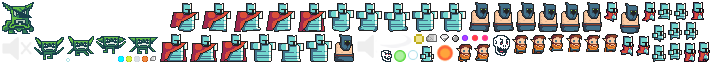
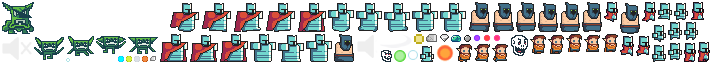
Adds slime and tweaks enemy spawning

Changed region(s): [[0.618, 0.5312, 0.8034, 0.9688]]

diff --git a/src/services/EnemySpawner.js b/src/services/EnemySpawner.js
@@ -130,26 +130,18 @@ export class EnemySpawner {
 
   getSpawnTypes() {
     return [
-      { knight: 1, skull: 18, gremlin: 19 },
-      { knight: 1, skull: 17, gremlin: 18, eliteKnight: 20 },
-      { knight: 1, skull: 16, gremlin: 17, eliteKnight: 19, largeKnight: 20 },
-      { knight: 1, skull: 15, gremlin: 16, eliteKnight: 18, largeKnight: 19 },
-      {
-        knight: 1,
-        skull: 6,
-        gremlin: 13,
-        eliteKnight: 18,
-        largeKnight: 19,
-        largeEliteKnight: 20,
-      },
-      {
-        knight: 1,
-        skull: 6,
-        gremlin: 13,
-        eliteKnight: 18,
-        largeKnight: 19,
-        largeEliteKnight: 20,
-      },
+      // prettier-ignore
+      { slime: 1, gremlin: 17 },
+      // prettier-ignore
+      { slime: 1, gremlin: 15, skull: 18 },
+      // prettier-ignore
+      { slime: 1, gremlin: 8, skull: 14, knight: 17, eliteKnight: 19 },
+      // prettier-ignore
+      { slime: 1, gremlin: 6, skull: 13, knight: 16, eliteKnight: 18, largeKnight: 19 },
+      // prettier-ignore
+      { slime: 1, gremlin: 6, skull: 11, knight: 15, eliteKnight: 18, largeKnight: 19, largeEliteKnight: 20, },
+      // prettier-ignore
+      { slime: 1, gremlin: 6, skull: 10, knight: 15, eliteKnight: 18, largeKnight: 19, largeEliteKnight: 20, },
     ][this.getLevel()]
   }
 

diff --git a/src/constants/enemies.js b/src/constants/enemies.js
@@ -1,13 +1,13 @@
 export const ENEMIES = {
-  skull: {
-    type: 'skull',
+  slime: {
+    type: 'slime',
     bodySize: [12, 19],
     bodyOffset: [10, 12],
     speed: 30,
     tint: 0xffffff,
-    hp: 2,
+    hp: 1,
     damage: 3,
-    xp: 5,
+    xp: 2,
     mass: 10,
   },
   gremlin: {
@@ -16,9 +16,20 @@ export const ENEMIES = {
     bodyOffset: [8, 12],
     speed: 30,
     tint: 0x00aa55,
-    hp: 12,
+    hp: 3,
     damage: 3,
-    xp: 25,
+    xp: 10,
+    mass: 10,
+  },
+  skull: {
+    type: 'skull',
+    bodySize: [12, 19],
+    bodyOffset: [10, 12],
+    speed: 30,
+    tint: 0xffffff,
+    hp: 5,
+    damage: 3,
+    xp: 5,
     mass: 10,
   },
   knight: {
@@ -26,9 +37,9 @@ export const ENEMIES = {
     bodySize: [12, 19],
     bodyOffset: [10, 12],
     speed: 30,
-    hp: 4,
+    hp: 10,
     damage: 3,
-    xp: 10,
+    xp: 25,
     mass: 10,
   },
   eliteKnight: {

diff --git a/src/scenes/Game.js b/src/scenes/Game.js
@@ -24,6 +24,11 @@ export default class extends Phaser.Scene {
       repeat: -1,
     })
     this.anims.create({
+      key: 'slime',
+      frames: [{ key: 'tiles', frame: 'slime.png' }],
+      repeat: -1,
+    })
+    this.anims.create({
       key: 'explosion',
       frames: this.anims.generateFrameNames('tiles', {
         prefix: 'explosion',
